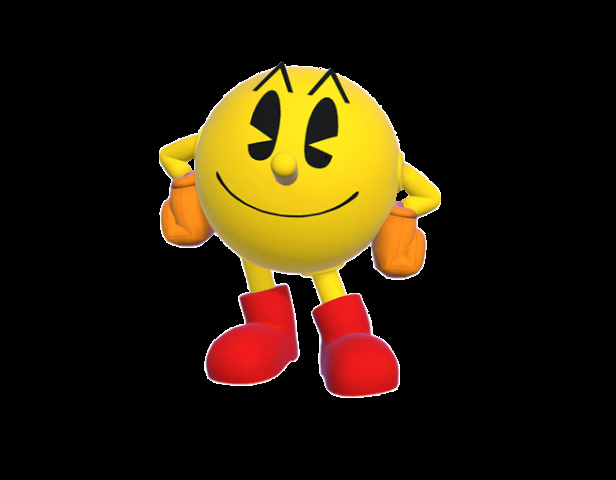
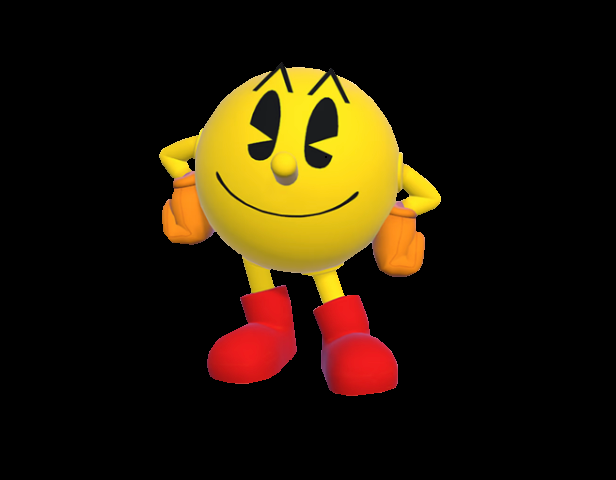
sharpened pacman images

diff --git a/style.css b/style.css
@@ -126,7 +126,7 @@ h1 {
 
 #gameover-screen {
     position: absolute;
-    width: 300px;
+    max-width: 300px;
     top: 0;
     right: 0;
     bottom: 0;
